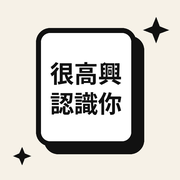
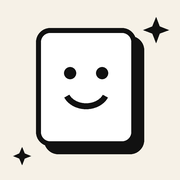
icon改笑臉

Changed region(s): [[0.2778, 0.5, 0.6944, 0.6389], [0.2778, 0.3333, 0.6944, 0.4722]]

diff --git a/index.html b/index.html
@@ -1,7 +1,7 @@
 <!DOCTYPE html>
 <html lang="zh-Hant"><head><meta charset="utf-8">
 <meta name="viewport" content="width=device-width,initial-scale=1,viewport-fit=cover,user-scalable=no">
-<meta name="apple-mobile-web-app-capable" content="yes"><meta name="mobile-web-app-capable" content="yes"><meta name="apple-mobile-web-app-status-bar-style" content="default"><meta name="apple-mobile-web-app-title" content="很高興認識你"><link rel="apple-touch-icon" sizes="180x180" href="apple-touch-icon.png"><meta name="theme-color" content="#f6f1e7">
+<meta name="apple-mobile-web-app-capable" content="yes"><meta name="mobile-web-app-capable" content="yes"><meta name="apple-mobile-web-app-status-bar-style" content="default"><meta name="apple-mobile-web-app-title" content="很高興認識你"><link rel="apple-touch-icon" sizes="180x180" href="apple-touch-icon.png?v=2"><meta name="theme-color" content="#f6f1e7">
 <title>很高興認識你 Nice to meet you</title>
 <style>
 *{box-sizing:border-box;-webkit-tap-highlight-color:transparent;-webkit-user-select:none;user-select:none}

diff --git a/template.html b/template.html
@@ -1,7 +1,7 @@
 <!DOCTYPE html>
 <html lang="zh-Hant"><head><meta charset="utf-8">
 <meta name="viewport" content="width=device-width,initial-scale=1,viewport-fit=cover,user-scalable=no">
-<meta name="apple-mobile-web-app-capable" content="yes"><meta name="mobile-web-app-capable" content="yes"><meta name="apple-mobile-web-app-status-bar-style" content="default"><meta name="apple-mobile-web-app-title" content="很高興認識你"><link rel="apple-touch-icon" sizes="180x180" href="apple-touch-icon.png"><meta name="theme-color" content="#f6f1e7">
+<meta name="apple-mobile-web-app-capable" content="yes"><meta name="mobile-web-app-capable" content="yes"><meta name="apple-mobile-web-app-status-bar-style" content="default"><meta name="apple-mobile-web-app-title" content="很高興認識你"><link rel="apple-touch-icon" sizes="180x180" href="apple-touch-icon.png?v=2"><meta name="theme-color" content="#f6f1e7">
 <title>很高興認識你 Nice to meet you</title>
 <style>
 *{box-sizing:border-box;-webkit-tap-highlight-color:transparent;-webkit-user-select:none;user-select:none}
